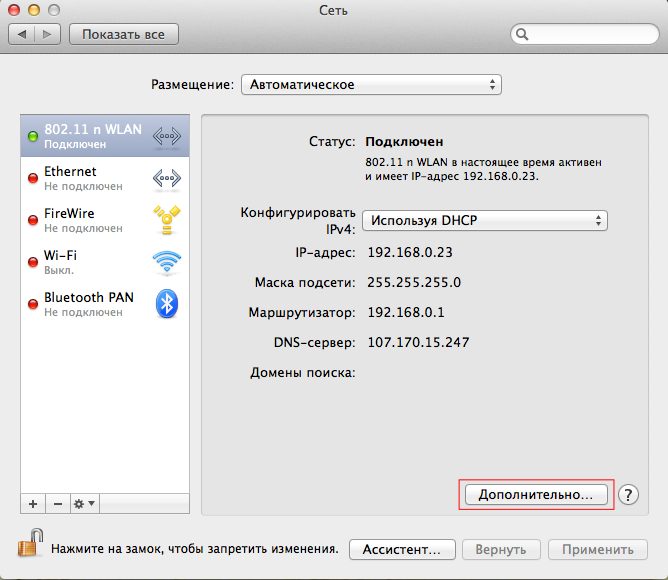
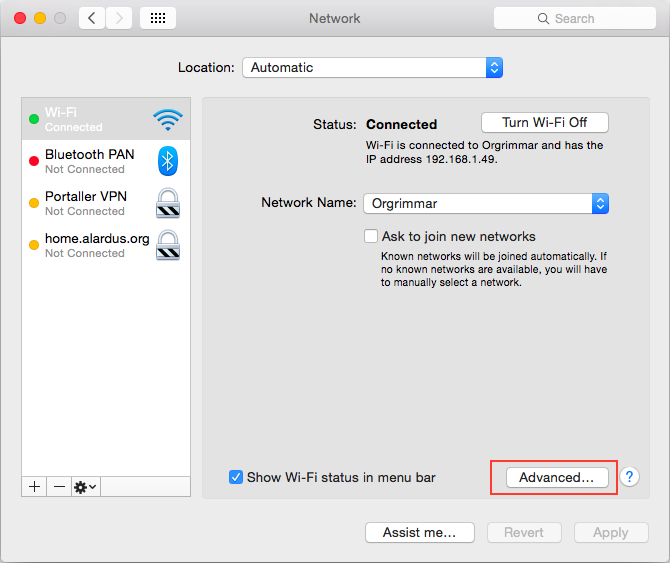
Moved VPN to 1st scren

diff --git a/setup.html b/setup.html
@@ -66,8 +66,7 @@
         <p>But if you want to use it on many devices inside your home network at the same time (e.g. listen Pandora on iPhone and watch Netflix on TV) &mdash; best way is write Portaller DNS address to the settings of your router. It will push right DNS settings to any devices connected to it.</p>
 
           <h4 id="sec0">Which services are supported</h4>
-          <p>Every device can use it's own version of software to communicate with services. All devices under modern OS must work correct, but you need to check that you use latest version of client for Pandora, Spotify or Netflix.
-          </p>
+          <p>Every device use it's own version of software to communicate with media services. In most cases devices under modern OS will work correct, but in some cases (e.g. new version of Netflix client prefer to use Google DNS) may not.</p>
           <p>
           Versions of OS that I used for testing &mdash; Windows 7, iOS 8, Android 4.4. Clients &mdash; Chrome 39, Pandora 5.4, Spotify 1.9, Netflix 3.9, Amazon Video 5.2. 
           </p>

diff --git a/index.html b/index.html
@@ -51,6 +51,7 @@
         <p><h2 style="margin-left: -42px">&mdash; secondary:&nbsp;77.88.8.8</h2></p>
         <p style="margin-top: 30px">
 	       <a href="http://portaller.com/setup" class="btn btn-primary btn-md">Read Setup Instructions</a>
+	       <a href="http://portaller.com/setup/vpn" class="btn btn-primary btn-md">Use It On The Go</a>
 	       <!-- <a href="http://portaller.com/download" class="btn btn-primary btn-md">Download Apps for Services</a> -->
         </p>
       </div>
